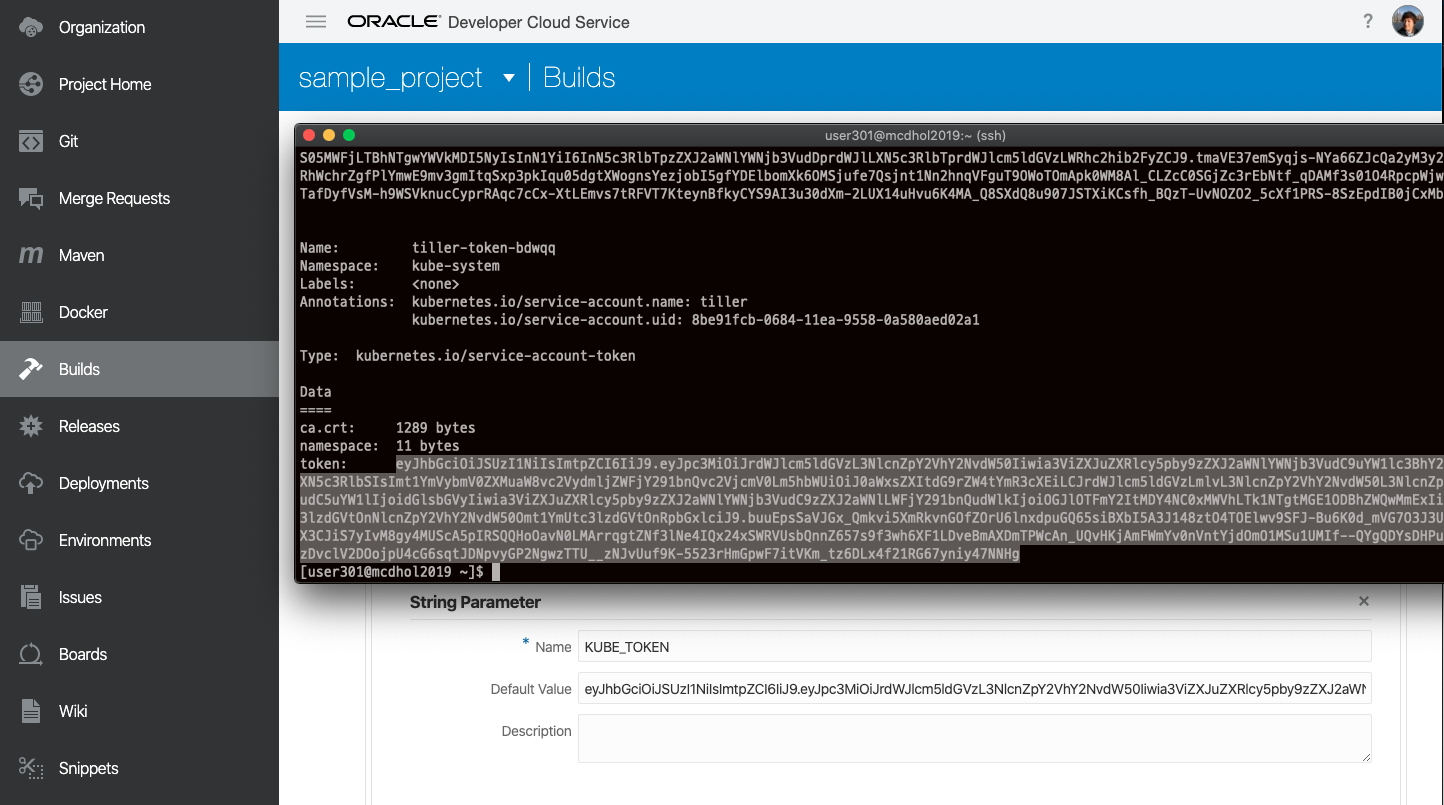
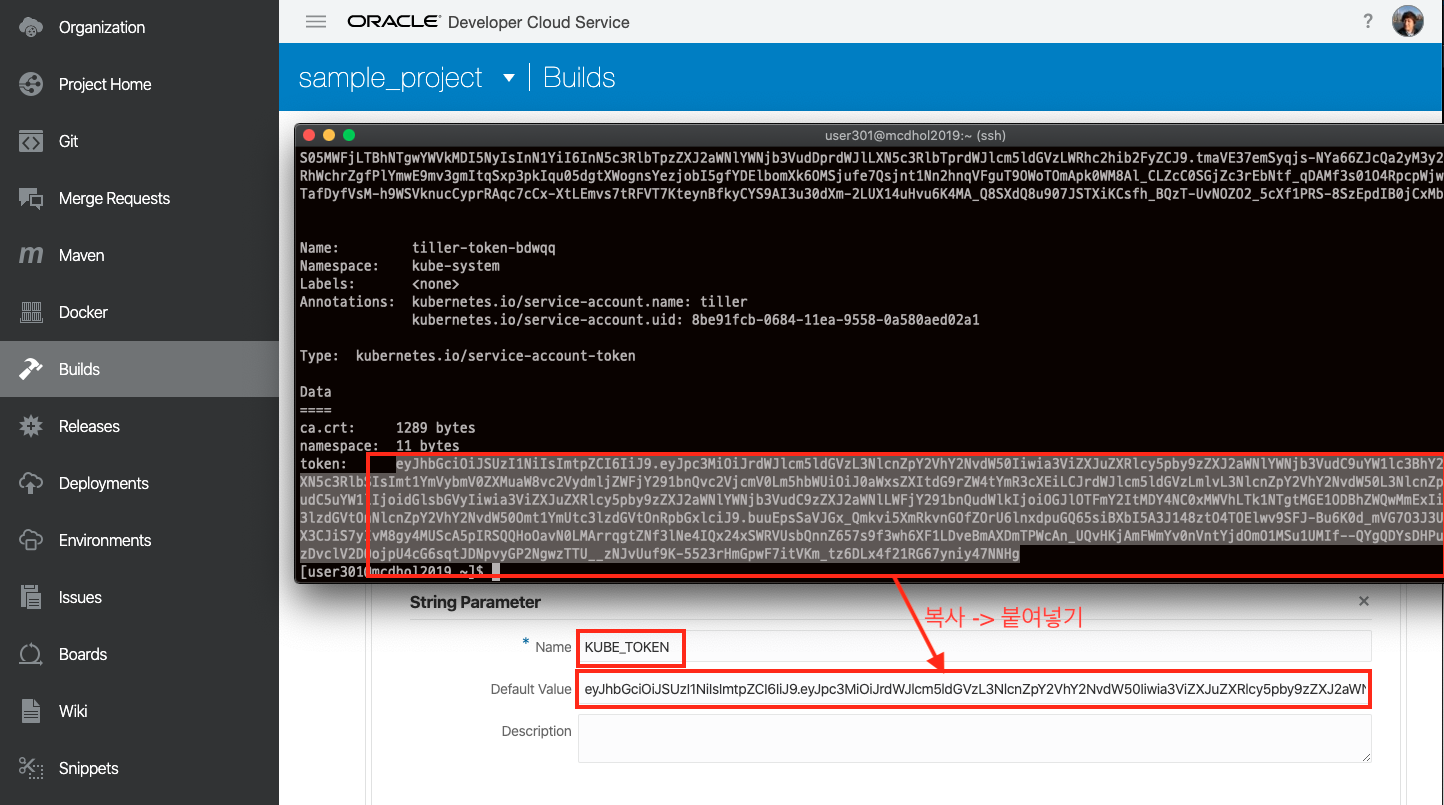
update

Changed region(s): [[0.2493, 0.559, 1.0, 0.8385], [0.4051, 0.8696, 0.9349, 0.9006]]

diff --git a/cicd.md b/cicd.md
@@ -37,7 +37,7 @@
 1. 먼저 Kubernetes 주소를 변수로 입력합니다.   
     ![](images/devcs_param2.png)
     
-    > Name : <b>KUBE_URL</b><br>
+    > Name : <b><font color=red>KUBE_URL</font></b><br>
     > Default Value : https://[Kubernetes Master 서버 주소]
     
     앞에 https 를 반드시 입력해야 합니다.
@@ -51,16 +51,16 @@
     또한 OCI 콘솔의 Containers->Clusters에서 확인이 가능합니다.
     ![](images/devcs_param21.png)
     
-1. Add Parameter -> String Parameter를 선택해서 다음을 입력합니다.
+1. <font color=red>Add Parameter -> String Parameter</font>를 선택해서 다음을 입력합니다.
     
-    > Name: <b>KUBE_TOKEN</b><br>
+    > Name: <b><font color=red>KUBE_TOKEN</font></b><br>
     > Default Value : 아래의 명령어로 실습 개발 환경에서 실행을 한 후 가장 아래 부분에 나오는 Token값을 복사합니다.
     ```
     $ kubectl -n kube-system describe secret $(kubectl -n kube-system get secret | grep oke-admin | awk '{print $1}')
     ```
     ![](images/devcs_param3.png)
 
-1. Add Parameter -> String Parameter를 두번 더 합니다.
+1. <font color=red>Add Parameter -> String Parameter</font>를 두 번 더 합니다.
     ![](images/devcs_param5.png)
     
     > NAME : **OCIR**<br>
@@ -114,7 +114,7 @@
 
     ![](images/devcs_step_dockerbuild2.png)    
 
-1. 동일한 과정으로 Add Step --> Docker --> Docker Push를 선택하고 아래의 정보를 입력합니다. 
+1. 동일한 과정으로 <font color=red>Add Step --> Docker --> Docker Push</font>를 선택하고 아래의 정보를 입력합니다. 
     ```
     Docker Push
     Image Name : $IMAGE_NAME
